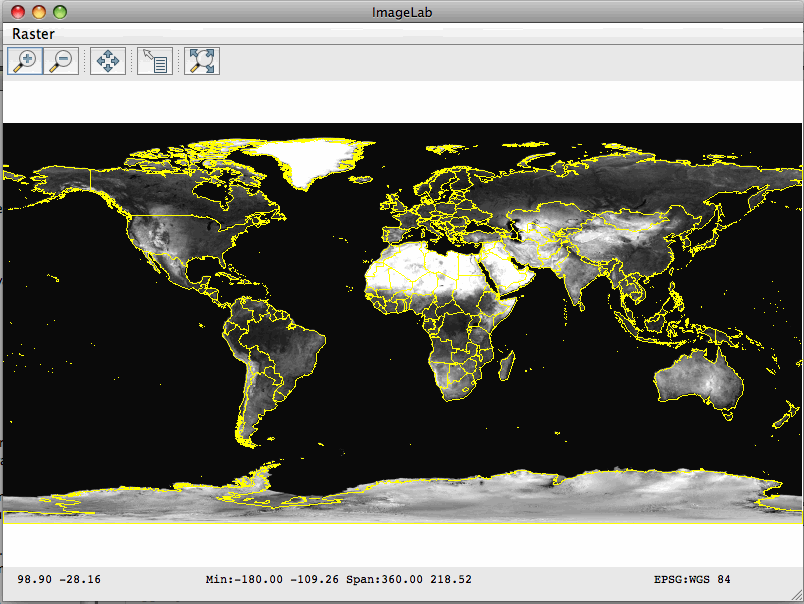
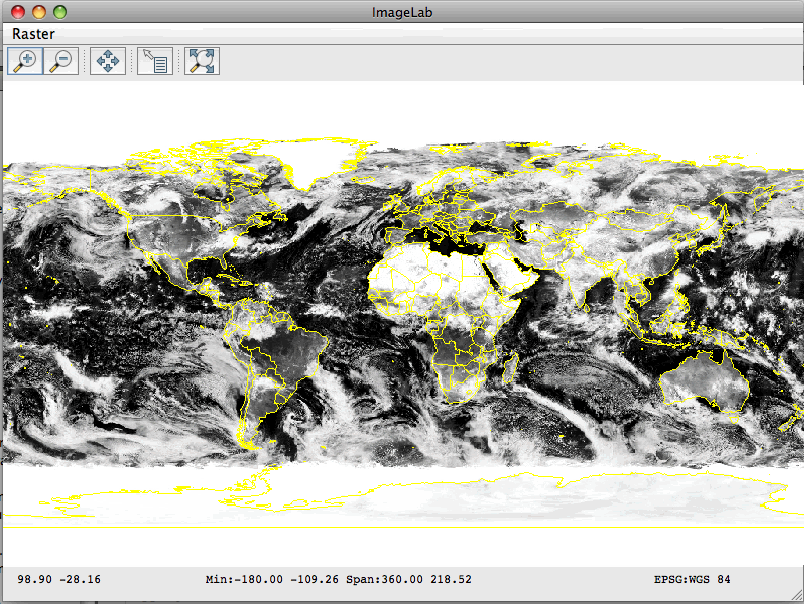
Minor fixes to Feature, CRS, Query, and Image tutorials

diff --git a/docs/user/tutorial/geometry/geometrycrs.rst b/docs/user/tutorial/geometry/geometrycrs.rst
@@ -58,7 +58,7 @@ the geometry of the features.
         :start-after: </properties>
         :end-before: <repositories>
     
-2. Create the **CRSLab.java** file and copy and paste the following code.
+2. Create the **CRSLab.java** file and copy and paste the following code:
 
 .. literalinclude:: /../src/main/java/org/geotools/tutorial/crs/CRSLab.java
    :language: java
@@ -74,7 +74,7 @@ the geometry of the features.
       :start-after: // docs start display
       :end-before: // docs end display
 
-4. Here is how we have configured JMapFrame
+4. Here is how we have configured JMapFrame:
 
    * We have enabled a status line; this contains a button allowing the map
      coordinate reference system to be changed.
@@ -119,7 +119,7 @@ MathTransform between two CoordinateReferenceSystems. You can use the
 MathTransform to transform points one at a time; or use the JTS utility class
 to create a copy of a Geometry with the points modified.
 
-We use similar steps to export a shapefile as used by the csv 2 shp example.
+We use similar steps to export a shapefile as used by the Csv2Shape example.
 In this case we are reading the contents from an existing shapefile using
 a **FeatureIterator**; and writing out the contents one at a time
 using a **FeatureWriter**. Please close these objects after use.
@@ -132,21 +132,21 @@ using a **FeatureWriter**. Please close these objects after use.
     :start-after: // docs start export action
     :end-before: // docs end export action
 
-2. Exporting reprojected data to a shapefile
+2. Exporting reprojected data to a shapefile:
 
 .. literalinclude:: /../src/main/java/org/geotools/tutorial/crs/CRSLab.java
    :language: java
    :start-after: // docs start export
    :end-before: // set up the math transform used to process the data
       
-3. Set up a math transform used to process the data
+3. Set up a math transform used to process the data:
 
 .. literalinclude:: /../src/main/java/org/geotools/tutorial/crs/CRSLab.java
    :language: java
    :start-after: // set up the math transform used to process the data
    :end-before: // grab all features
 
-4. Grab all features
+4. Grab all features:
 
 .. literalinclude:: /../src/main/java/org/geotools/tutorial/crs/CRSLab.java
    :language: java
@@ -177,8 +177,7 @@ To switch between map projections:
 
 1. When you start the application you will be prompted for a shapefile to display.
    In the screenshots below we are using the *bc_border* map which can be
-   downloaded as part of the uDig sample data file:
-   `data-v1_2.zip <http://udig.refractions.net/docs/data-v1_2.zip>`
+   downloaded as part of the `uDig sample dataset <http://udig.refractions.net/docs/data-v1_2.zip>`_
 
 .. image:: images/CRSLab_start.png
    :width: 60%
@@ -435,7 +434,7 @@ EPSG:4326
    .. image:: images/epsg4326.png
       :scale: 30
    
-   This is the big one: nformation measured by lat/lon using decimal degrees.
+   This is the big one: information measured by lat/lon using decimal degrees.
         
    ``CRS.decode("EPSG:4326");``
 
@@ -493,7 +492,7 @@ supposed to be this way – and have been fighting with map makers ever since.
 So if you see some data in "EPSG:4326" you have no idea if it is in x/y order or
 in y/x order.
 
-We have finally sorted out an alternative; rather then EPSG:4326 we are supposed
+We have finally sorted out an alternative; rather than EPSG:4326 we are supposed
 to use "urn:ogc:def:crs:EPSG:6.6:4326". If you ever see that you can be sure
 that a) someone really knows what they are doing and b) the data is recorded in
 exactly the order defined by the EPSG database.

diff --git a/docs/user/tutorial/filter/query.rst b/docs/user/tutorial/filter/query.rst
@@ -71,7 +71,7 @@ example.
       :start-after: <url>http://maven.apache.org</url>
       :end-before: <repositories>
 
-2. Create the *QueryLab* class and copy and paste the following to get going.
+2. Create the *QueryLab* class and copy and paste the following to get going:
    
    .. literalinclude:: /../src/main/java/org/geotools/tutorial/filter/QueryLab.java
       :language: java
@@ -107,8 +107,7 @@ Here is the code to create the controls:
    
    .. literalinclude:: /../src/main/java/org/geotools/tutorial/filter/QueryLab.java
       :language: java
-      :start-after: // docs start data menu
-      :end-before: // docs end data menu
+      :lines: 124-138, 145
    
 Connect to DataStore
 ---------------------
@@ -199,8 +198,7 @@ Now we can run the application and try out some of these ideas:
    the File menu.
 
    The **JDataStoreWizard** will prompt you for a file. Please select the **cities.shp**
-   shapefile available as part of the `uDig sample dataset
-   <http://udig.refractions.net/docs/data-v1_2.zip>` used in previous tutorials.
+   shapefile available as part of the `uDig sample dataset <http://udig.refractions.net/docs/data-v1_2.zip>`_ used in previous tutorials.
 
    .. image:: images/shapeWizard1.png
 
@@ -269,14 +267,14 @@ Things to Try
   .. image:: images/postgisWizard1.png
   
   If you don't have a PostGIS database you can try connecting to a public online database at
-  `Refractions Research <http://www.refractions.net/>` with the following credentials:
+  `Refractions Research <http://www.refractions.net/>`_ with the following credentials:
   
   :host:
     www.refractions.net
   :port:
     5432
   :database:
-    bc-demo
+    demo-bc
   :user:
     demo
   :passwd:
@@ -305,9 +303,6 @@ Things to Try
      encoder.encode( filter, org.geotools.filter.v1_0.OGC.FILTER, outputstream );
   
   For these examples to work you will need a dependency on *gt-xml*.
-
-* One of the stated advantages of using **Query** is to cut down on the amount of data requested
-  when working. Here is an example of calculating the center of the 
 
 *  Earlier we covered the use FeatureIterator to sift through the contents of a FeatureCollection.
    Using this idea with **Query** allows you to work with just the geometry when determining the
@@ -408,7 +403,7 @@ following query will request THE_GEOM and POPULATION from a FeatureSource |ldquo
 
 FeatureCollection
 -----------------
-Previously we added features to a FeatureCollection during the CSV2SHP example. This was easy as the
+Previously we added features to a FeatureCollection during the Csv2Shp example. This was easy as the
 FeatureCollection was in memory at the time. When working with spatial data we try to not have a
 FeatureCollection in memory because spatial data gets big in a hurry.
 

diff --git a/docs/user/tutorial/feature/csv2shp.rst b/docs/user/tutorial/feature/csv2shp.rst
@@ -143,7 +143,7 @@ Things to note:
 
 * We check that we have read-write access by confirming our FeatureSource object
   implements the FeatureStore methods
-* Taking a moment to check how closely shapefile was able to match our
+* Take a moment to check how closely the shapefile was able to match our
   template (the SimpleFeatureType TYPE). Compare this output to see how they are different.
 * The SimpleFeatureStore that we use to do this expects a FeatureCollection object,
   so we wrap our list of features in a ListFeatureCollection.
@@ -214,7 +214,7 @@ Other things to try
   
      LAT, LON, CITY, NUMBER
   
-  You should be able to use the SimpleFeatureTypeBuilder
+  You should be able to use the SimpleFeatureTypeBuilder.
   
   .. instructor note: this is the real key to the exercise and why simple feature type builder
      exists ... allowing you to generate your own shapefile dynamically

diff --git a/docs/user/tutorial/raster/image.rst b/docs/user/tutorial/raster/image.rst
@@ -92,7 +92,7 @@ We are going to use these same facilities now to prompt the user:
       :start-after: // docs start get layers
       :end-before: // docs end get layers
 
-The use of **Parameter** objects for each input file. The arguments passed to the Parameter
+Observer the use of **Parameter** objects for each input file. The arguments passed to the Parameter
 constructor are:
    
 :key: an identifier for the Parameter
@@ -164,10 +164,9 @@ and pass it to a **JMapFrame**.
 Running the application
 =======================
 
-If you need some sample data to display you can download the uDig
-`sample dataset <http://udig.refractions.net/docs/data-v1_2.zip>`_ which contains:
+If you need some sample data to display you can download the `uDig sample dataset <http://udig.refractions.net/docs/data-v1_2.zip>`_ which contains:
 
-* bluemarble.tif
+* clouds.jpg
 * countries.shp
 
 
